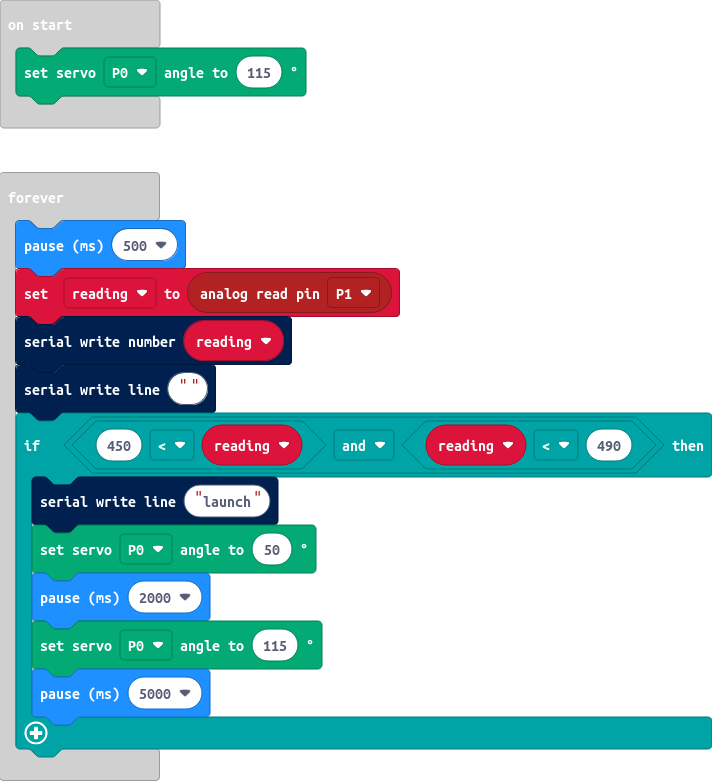
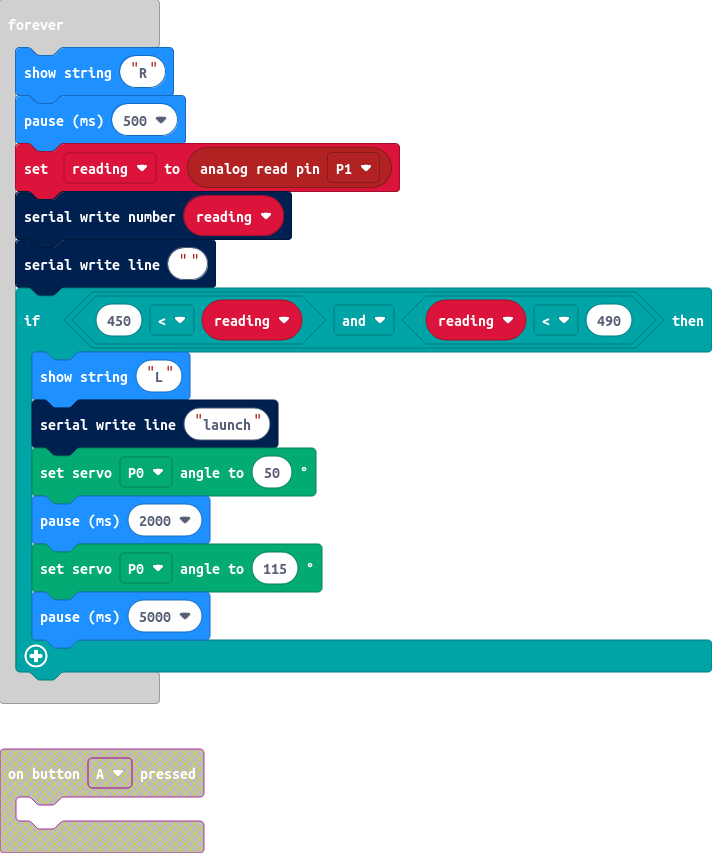
Update main.blocks, main.ts

diff --git a/main.ts b/main.ts
@@ -1,14 +1,13 @@
-input.onButtonPressed(Button.A, function () {
-	
-})
 let reading = 0
 servos.P0.setAngle(115)
 basic.forever(function () {
+    basic.showString("R")
     basic.pause(500)
     reading = pins.analogReadPin(AnalogPin.P1)
     serial.writeNumber(reading)
     serial.writeLine("")
     if (450 < reading && reading < 490) {
+        basic.showString("L")
         serial.writeLine("launch")
         servos.P0.setAngle(50)
         basic.pause(2000)
